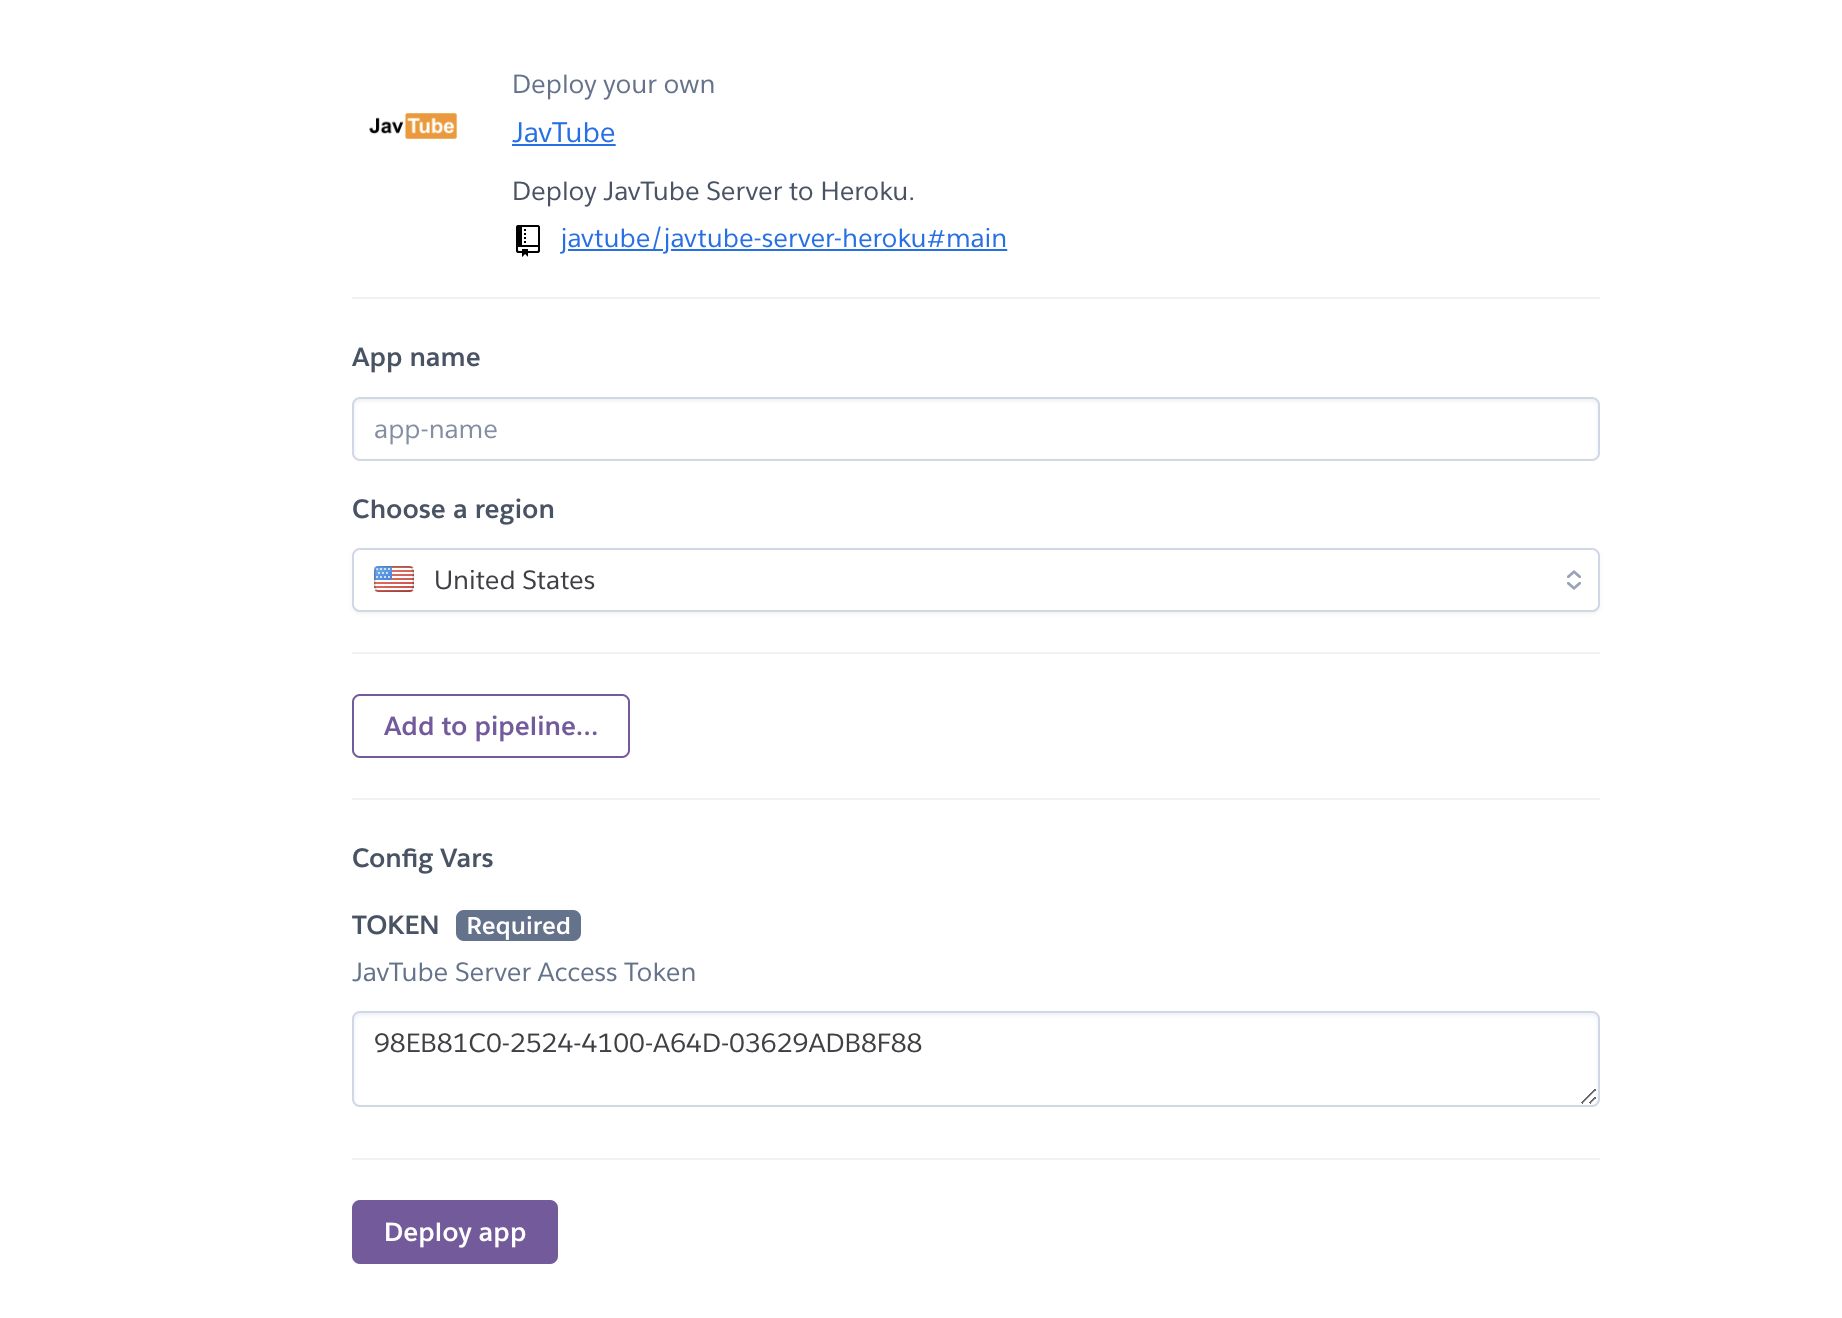
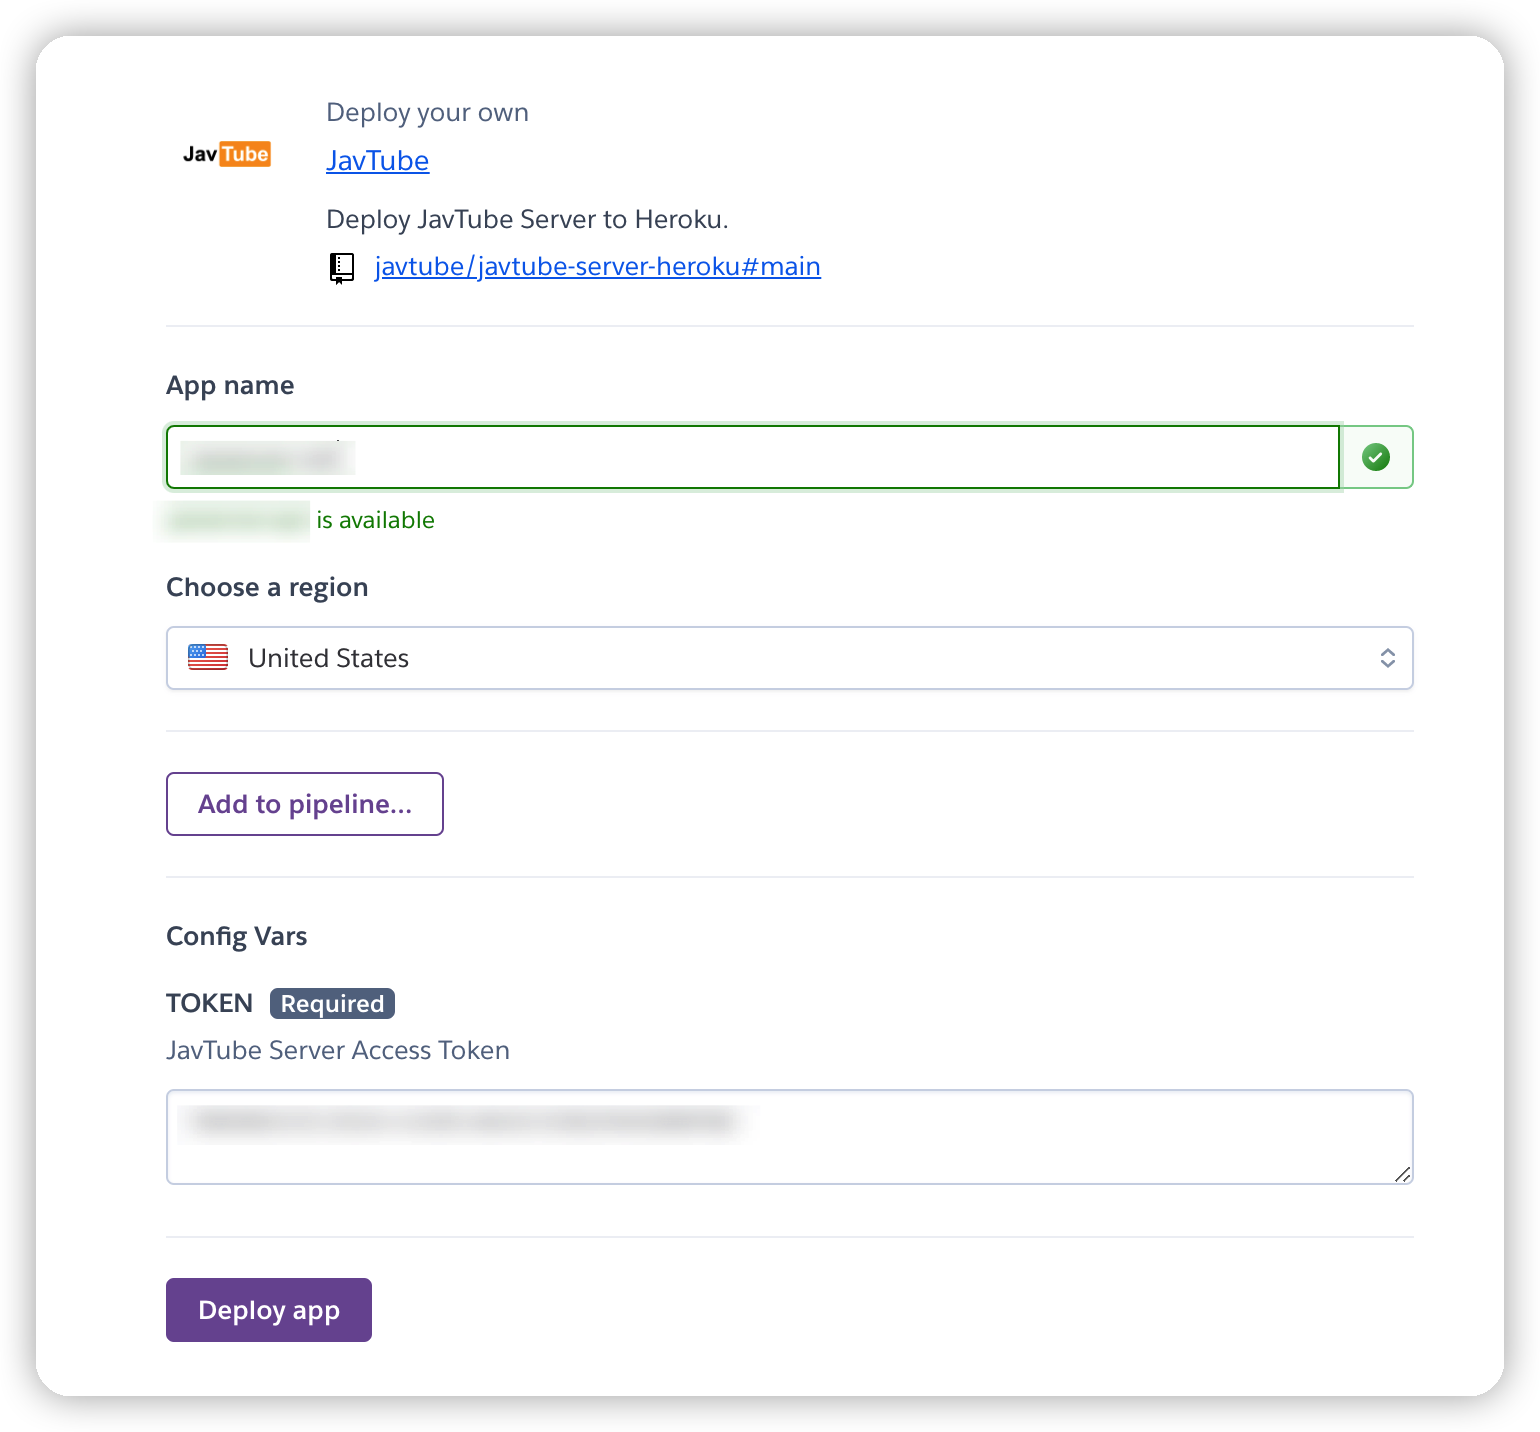
Add steps

diff --git a/README.md b/README.md
@@ -10,8 +10,25 @@
 
 > 没有Heroku账号的需要先[注册](https://signup.heroku.com/)
 
-1. 建议将地区选择为美国
-2. 重新输入并保存新的`TOKEN`
-3. 点击`Deploy app`完成部署
+- 点击本页面中的[一键部署](#一键部署)按钮创建应用
+
+![deploy](images/deploy.png)
+
+- 在`App name`中输入自定义的应用名
+- **建议**将地区选择为美国（`United States`）
+- 在`Config Vars`中重新输入新的`TOKEN`并**复制**
+- 点击`Deploy app`完成部署
 
 ![create](images/create.png)
+
+- 右键**复制**View中的地址（`JavTube Server URL`）
+
+![view](images/view.png)
+
+- 点击View，出现类似如下的页面即为成功部署
+
+![page](images/page.png)
+
+- 在JavTube插件中分别粘贴进之前复制的`JavTube Server URL`与`TOKEN`，即可完成插件配置
+
+![plugin](images/plugin.png)
